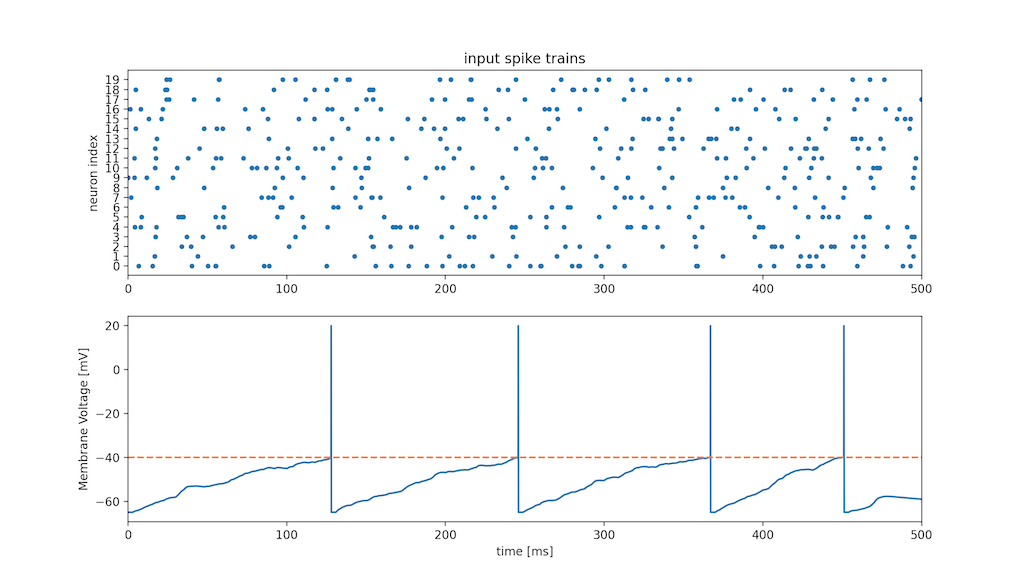
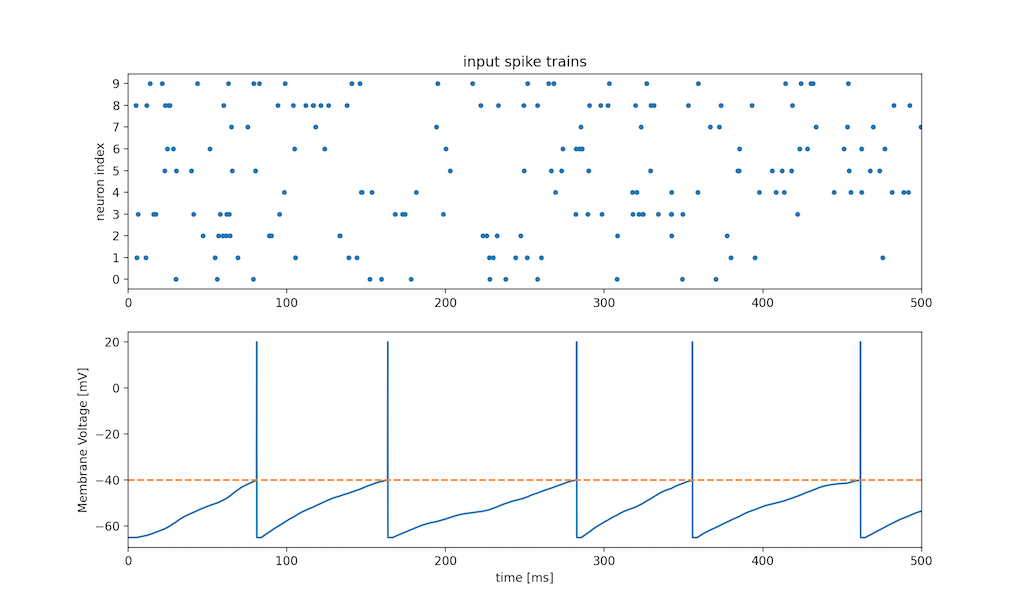
[fix] LIF model: bug fix

diff --git a/lif_sample.py b/lif_sample.py
@@ -12,11 +12,11 @@ if __name__ == '__main__':
 
     # Input data
     spikes = [np.where(np.random.random(time) > 0.996, 1, 0)
-              for _ in range(20)]
+              for _ in range(10)]
     spikes = np.array(spikes)
 
     # random weights whose size is the same as spikes
-    weights = np.random.random(20) + 20.0
+    weights = np.random.random(10) + 5.0
 
     neu = LIF(duration, dt)
     v, s, f = neu.calc_v((spikes, weights))

diff --git a/spine/lif.py b/spine/lif.py
@@ -55,10 +55,7 @@ class LIF(Neuron):
         time = int(self.time / self.dt)
 
         data = np.sum(data, 0)
-        data = np.convolve(data, self.kernel(np.arange(0, self.time)), 'same')[:time]
-        # plt.plot(data)
-        # plt.show()
-        # exit()
+        data = np.convolve(data, self.kernel(np.arange(0, self.time, self.dt)), )[0:time]
 
         # initialize
         f_last = 0  # last firing time
